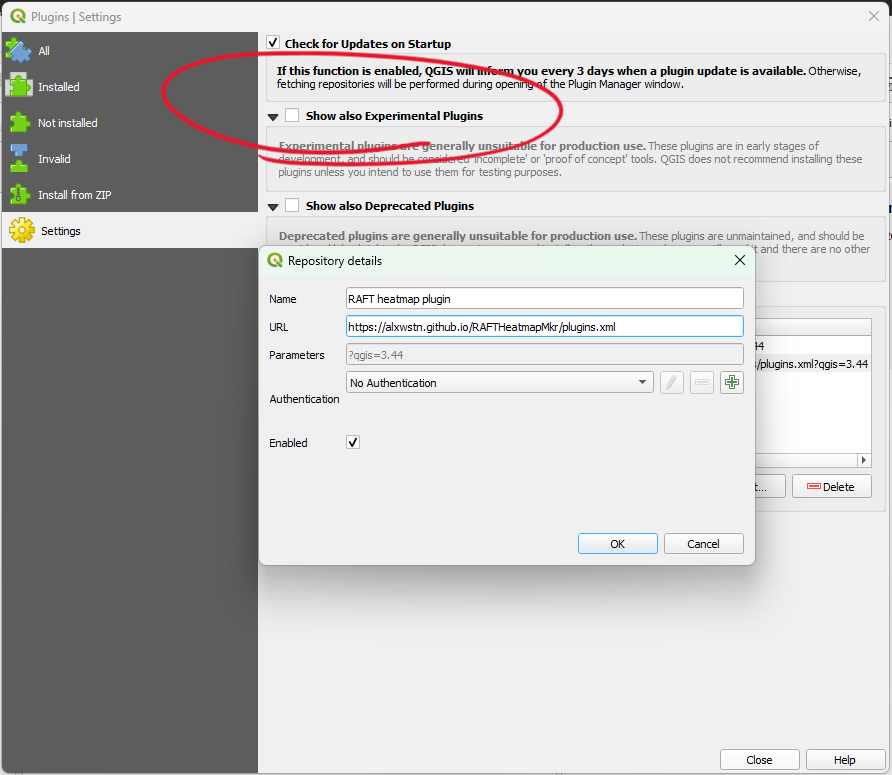
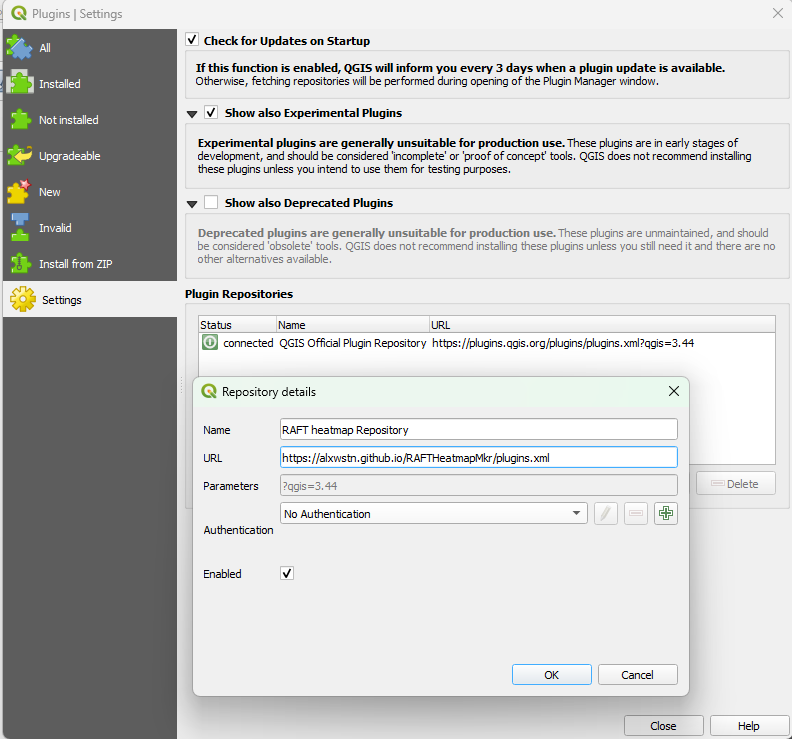
update installation and touch up contributing

Changed region(s): [[0.0, 0.0, 1.0, 1.0], [0.9697, 0.0, 1.0, 0.0311]]

diff --git a/CONTRIBUTING.md b/CONTRIBUTING.md
@@ -2,13 +2,13 @@
 
 First off, thanks for considering contributing to this project!
 
-This plugin is quite specific to the RAFT program run by the San Diego River Park Foundation. I took part in the Geospatial Data Collection and Analysis Program December 2025 through March 2026 as a way to introduce to the environmental science and conservation sector in the San Diego area. As someone with a software engineering background, I found myself craving a deeper dive into QGIS, as the the training that was offered during my tenure in the program focused mainly on spreadsheets. Perhaps some aspect of my experience resonates with you, and you somehow found your way here.
+This plugin is quite specific to the RAFT program run by the San Diego River Park Foundation. I took part in the Geospatial Data Collection and Analysis Program December 2025 through March 2026 as a way to introduce to the environmental science and conservation sector in the San Diego area. As someone with a software engineering background, I found myself craving a deeper dive into QGIS, as the the analysis-related training that was offered during my tenure in the program focused mainly on spreadsheets. Perhaps some aspect of my experience resonates with you, and you somehow found your way here.
 
 Here are some suggestions on what to do next:
 
 1. If you want to develop a foundation in QGIS, consider starting with a [Gentle Introduction to GIS](https://docs.qgis.org/3.40/en/docs/gentle_gis_introduction/), the [official training manual](https://docs.qgis.org/3.44/en/docs/training_manual/), and/or this friendly [QGIS tutorial site](https://www.qgistutorials.com/en/index.html).
-2. If you want to know a bit about automating QGIS workflows, challenge yourself to write a python program that is launched from your commandline/terminal to preform the RAFT "trash join" step (IYKYK). Your program won't be adopted by SDRPF, but it's a useful learning exercise, and can [dogfood](https://en.wikipedia.org/wiki/Eating_your_own_dog_food) it! Start by writing your program in the [QGIS Python console](https://docs.qgis.org/3.40/en/docs/user_manual/plugins/python_console.html), then figure out what changes you need to make to run your program without actually opening QGIS.
-3. If you're interested in QGIS plugin development, but getting a new plugin bootstrapped on your own is feeling a bit daunting: A number of issues have been added as potential future additions to this plugin. You can [fork](https://docs.github.com/en/pull-requests/collaborating-with-pull-requests/working-with-forks/fork-a-repo) the repository, get local development set up [as described here](https://alxwstn.github.io/RAFTHeatmapMkr/development/environment.html), and give it a go! Depending on your level of experience with coding, there can be a lot of useful skills to learn as part of that process (Basic GIS, QGIS, Git, Python, Github workflows, PyQt user interfaces)!
+2. If you want to know a bit about automating QGIS workflows, challenge yourself to write a Python program that is launched from your commandline/terminal to preform the RAFT "trash join" step (IYKYK). Your program won't be adopted by SDRPF, but it's a useful learning exercise, and you can [dogfood](https://en.wikipedia.org/wiki/Eating_your_own_dog_food) it! Start by writing your program in the [QGIS Python console](https://docs.qgis.org/3.40/en/docs/user_manual/plugins/python_console.html), then figure out what changes you need to make to run your program without actually opening QGIS.
+3. If you're interested in QGIS plugin development, but getting a new plugin bootstrapped on your own is feeling a bit daunting: A number of [issues](https://github.com/alxwstn/RAFTHeatmapMkr/issues) have been added as potential future additions to this plugin. You can [fork](https://docs.github.com/en/pull-requests/collaborating-with-pull-requests/working-with-forks/fork-a-repo) the repository, get local development set up [as described here](https://alxwstn.github.io/RAFTHeatmapMkr/development/environment.html), and give it a go! Depending on your level of experience with coding, there can be a lot of useful skills to learn as part of that process (Basic GIS, QGIS, Git, Python, Github workflows, PyQt user interfaces)!
 4. If you have some familiarity with a few of the skills described above, you can go about the process of generating your own QGIS plugin using the [QGIS Plugin templater](https://oslandia.gitlab.io/qgis/template-qgis-plugin/usage/result.html). While there are several different ways to get started with plugin development, I found this one to be the most modern and friendliest. You can also start with the [QGIS Minimalist Plugin](https://github.com/wonder-sk/qgis-minimal-plugin) and build from the ground up.
 
 You got this!

diff --git a/docs/usage/installation.md b/docs/usage/installation.md
@@ -7,15 +7,17 @@ The plugin is automatically packaged for each commit to main, so you can use thi
 ```url
 https://alxwstn.github.io/RAFTHeatmapMkr/plugins.xml
 ```
-Installation Steps:
+
+## Installation Steps:
 
 1. Launch QGIS and open the Plugin Manager: Select `Plugins` from the menu toolbar, then `Manage and Install Plugins`
-2. Select `Settings`. In the Plugin Repositories, select `Add`. Set the `Name` field to `RAFT heatmap plugin`, and the url field to `https://alxwstn.github.io/RAFTHeatmapMkr/plugins.xml`. Select `OK`.
+2. Select `Settings`. In the Plugin Repositories, select `Add`. Set the `Name` field to `RAFT heatmap Repository`, and the url field to `https://alxwstn.github.io/RAFTHeatmapMkr/plugins.xml`. Select `OK`.
 
     ![QGIS - Add Custom Plugin Repository](../static/install_plugin_repository.png)
+
 3. Select `All` on the left hand menu, then filter to `raft`
 4. Select `raft_heatmap` and install
 
-## Beta versions released
+## Target a specific version
 
-Enable experimental extensions in the QGIS plugins manager settings panel (see circled option in screenshot above).
+You can install a specific version of the plugin by downloading the zipped release [here](https://github.com/alxwstn/RAFTHeatmapMkr/releases) and install it as described [here](https://docs.qgis.org/3.40/en/docs/user_manual/plugins/plugins.html#the-install-from-zip-tab).
